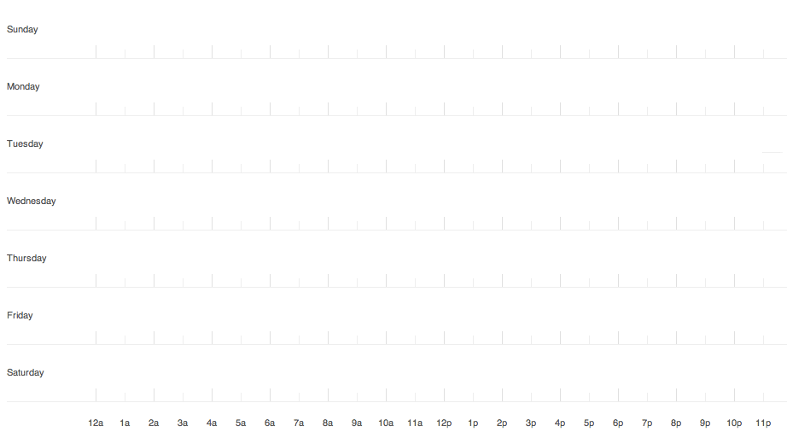
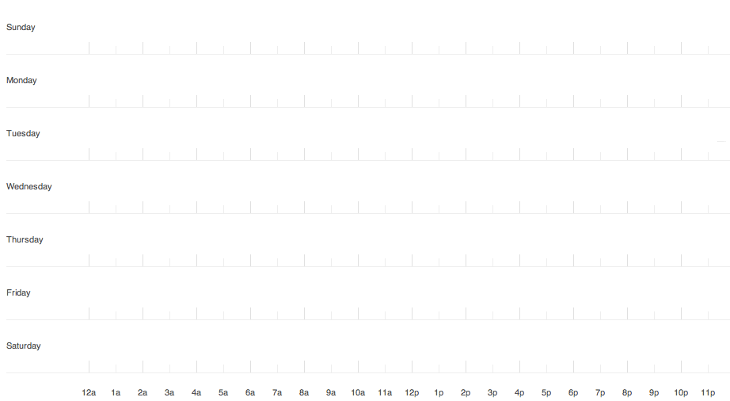
styles content script

diff --git a/src/PunchCard.css b/src/PunchCard.css
@@ -1,0 +1,36 @@
+.punchcard {
[1 lines of base64/hex data omitted]
+	background-repeat: no-repeat;
+	width: 730px;
+	height: 401px;
+	margin: 0px;
+}
+
+.punchcard table {
+	position: relative;
+	left: 65px;
+}
+
+.punchcard tr {
+	height: 53px;
+}
+
+.punchcard tr:last-of-type {
+	display: none;
+}
+
+/*
+.punchcard th {
+	display: none;
+}
+*/
+
+.punchcard td {
+	width: 27px;
+}
+
+.punchcard div {
+	margin: auto;
+	background-color: #444444;
+	border-radius: 50%;
+}

diff --git a/src/PunchCard.js b/src/PunchCard.js
@@ -37,27 +37,19 @@ function PunchCard(authorization) {
 		});
 	};
 
-	function weekDay(index) {
-		return ["Sunday", "Monday", "Tuesday", "Wednesday", "Thursday", "Friday", "Saturday"][index];
-	}
+//	function weekDay(index) {
+//		return ["Sunday", "Monday", "Tuesday", "Wednesday", "Thursday", "Friday", "Saturday"][index];
+//	}
+
 	function r(hour) {
 		return Math.sqrt(hour);
 	}
+
 	function diameter(hour) {
 		return Math.ceil(r(hour) * 2);
 	}
 
 	this.render = function (c) {
-
-		var minSpace = 25;
-//		for (var day of self.table) {
-//			for (var hour of day) {
-//				var d = diameter(hour);
-//				if (minSpace < d) {
-//					minSpace = d;
-//				}
-//			}
-//		}
 
 		/*
 		 * TODO make it look more like the original graph
@@ -67,18 +59,17 @@ function PunchCard(authorization) {
 			var day = self.table[d];
 			var r = document.createElement("tr");
 
-			var h = document.createElement("th");
-			h.innerText = weekDay(d);
-			h.style = "text-align: right;";
-			r.appendChild(h);
+//			var h = document.createElement("th");
+//			h.innerText = weekDay(d);
+//			h.style = "text-align: right;";
+//			r.appendChild(h);
 
 			for (var hour of day) {
 				var d = document.createElement("td");
-				d.style = "width: " + minSpace + "px; height: " + minSpace + "px;";
 				r.appendChild(d);
 
 				var v = document.createElement("div");
-				v.style = "margin: auto; background-color: #444444; border-radius: 50%; width: " + diameter(hour) + "px; height: " + diameter(hour) + "px;";
+				v.style = "width: " + diameter(hour) + "px; height: " + diameter(hour) + "px;";
 				d.appendChild(v);
 			}
 
@@ -87,16 +78,18 @@ function PunchCard(authorization) {
 
 		var r = document.createElement("tr");
 
-		var h = document.createElement("th");
-		r.appendChild(h);
-		for (var i = 0; i < 24; i++) {
-			h = document.createElement("th");
-			h.innerText = i;
-			r.appendChild(h);
-		}
+//		var h = document.createElement("th");
+//		r.appendChild(h);
+//		for (var i = 0; i < 24; i++) {
+//			h = document.createElement("th");
+//			h.innerText = i;
+//			r.appendChild(h);
+//		}
+
 		t.appendChild(r);
 
 		c.appendChild(t);
+		c.classList.add("punchcard");
 
 		return Promise.resolve(self);
 	}

diff --git a/src/popup.html b/src/popup.html
@@ -22,40 +22,50 @@
 	<meta name="apple-mobile-web-app-status-bar-style" content="black-translucent"/>
 	<meta name="apple-mobile-web-app-title" content="Github Punchcard"/>
 
+	<!--<link rel="stylesheet" href="PunchCard.css"/>-->
 	<style>
 		body {
-			width: 40em;
+			mix-width: 40em;
 		}
 
-		body.punchcard {
+		.punchcard {
 			background-image: url(background.png);
 			background-repeat: no-repeat;
-			width: 787px;
-			height: 432px;
+			width: 730px;
+			height: 401px;
 			margin: 0px;
 		}
 
-		table {
+		.punchcard table {
 			position: relative;
-			left: 80px;
+			left: 74px;
 		}
 
-		tr {
-			height: 55px;
+		.punchcard tr {
+			height: 51px;
 		}
 
-		tr:last-of-type {
+		.punchcard tr:last-of-type {
 			display: none;
 		}
 
-		th {
+		/*
+		.punchcard th {
 			display: none;
 		}
+		*/
 
-		td {
+		.punchcard td {
 			width: 25px;
+			padding: 0px;
 		}
-	</style>
+
+		.punchcard div {
+			margin: auto;
+			background-color: #444444;
+			border-radius: 50%;
+		}
+</style>
 </head>
 <body>
 <!--<div id="container" style="background-image: url(background.png); width: 922px; height: 506px;"></div>-->

diff --git a/src/popup.js b/src/popup.js
@@ -47,6 +47,9 @@ chrome.tabs.query({ active: true, currentWindow: true }, function(tabs){
 						document.querySelector("#msg").innerText = "This repository has been disabled.";
 					} else {
 						var promise = Promise.resolve();
+						/*
+						 * TODO use token for 403 (Forbidden)
+						 */
 						if (response.private) {
 							promise = new Promise(function(resolve, reject) {
 								chrome.storage.sync.get(["token"], function(result) {
@@ -69,8 +72,6 @@ chrome.tabs.query({ active: true, currentWindow: true }, function(tabs){
 							.then(function(punchCard) {
 								return punchCard.render(document.querySelector("#container"));
 							});
-						}).then(function() {
-							document.body.classList.add("punchcard");
 						}).catch(function(message) {
 							/*
 							 * https://stackoverflow.com/questions/3468607/why-does-settimeout-break-for-large-millisecond-delay-values

diff --git a/src/content.js b/src/content.js
@@ -51,6 +51,9 @@ function inject(user, repo, page, graph) {
 		var disabled = document.body.innerText.indexOf("This repository has been disabled.") != -1;
 		var user = document.querySelector("strong.css-truncate-target");
 
+		/*
+		 * TODO use token for 403 (Forbidden)
+		 */
 		if (private) {
 			return new Promise(function(resolve, reject) {
 				chrome.storage.sync.get(["token"], function(result) {
